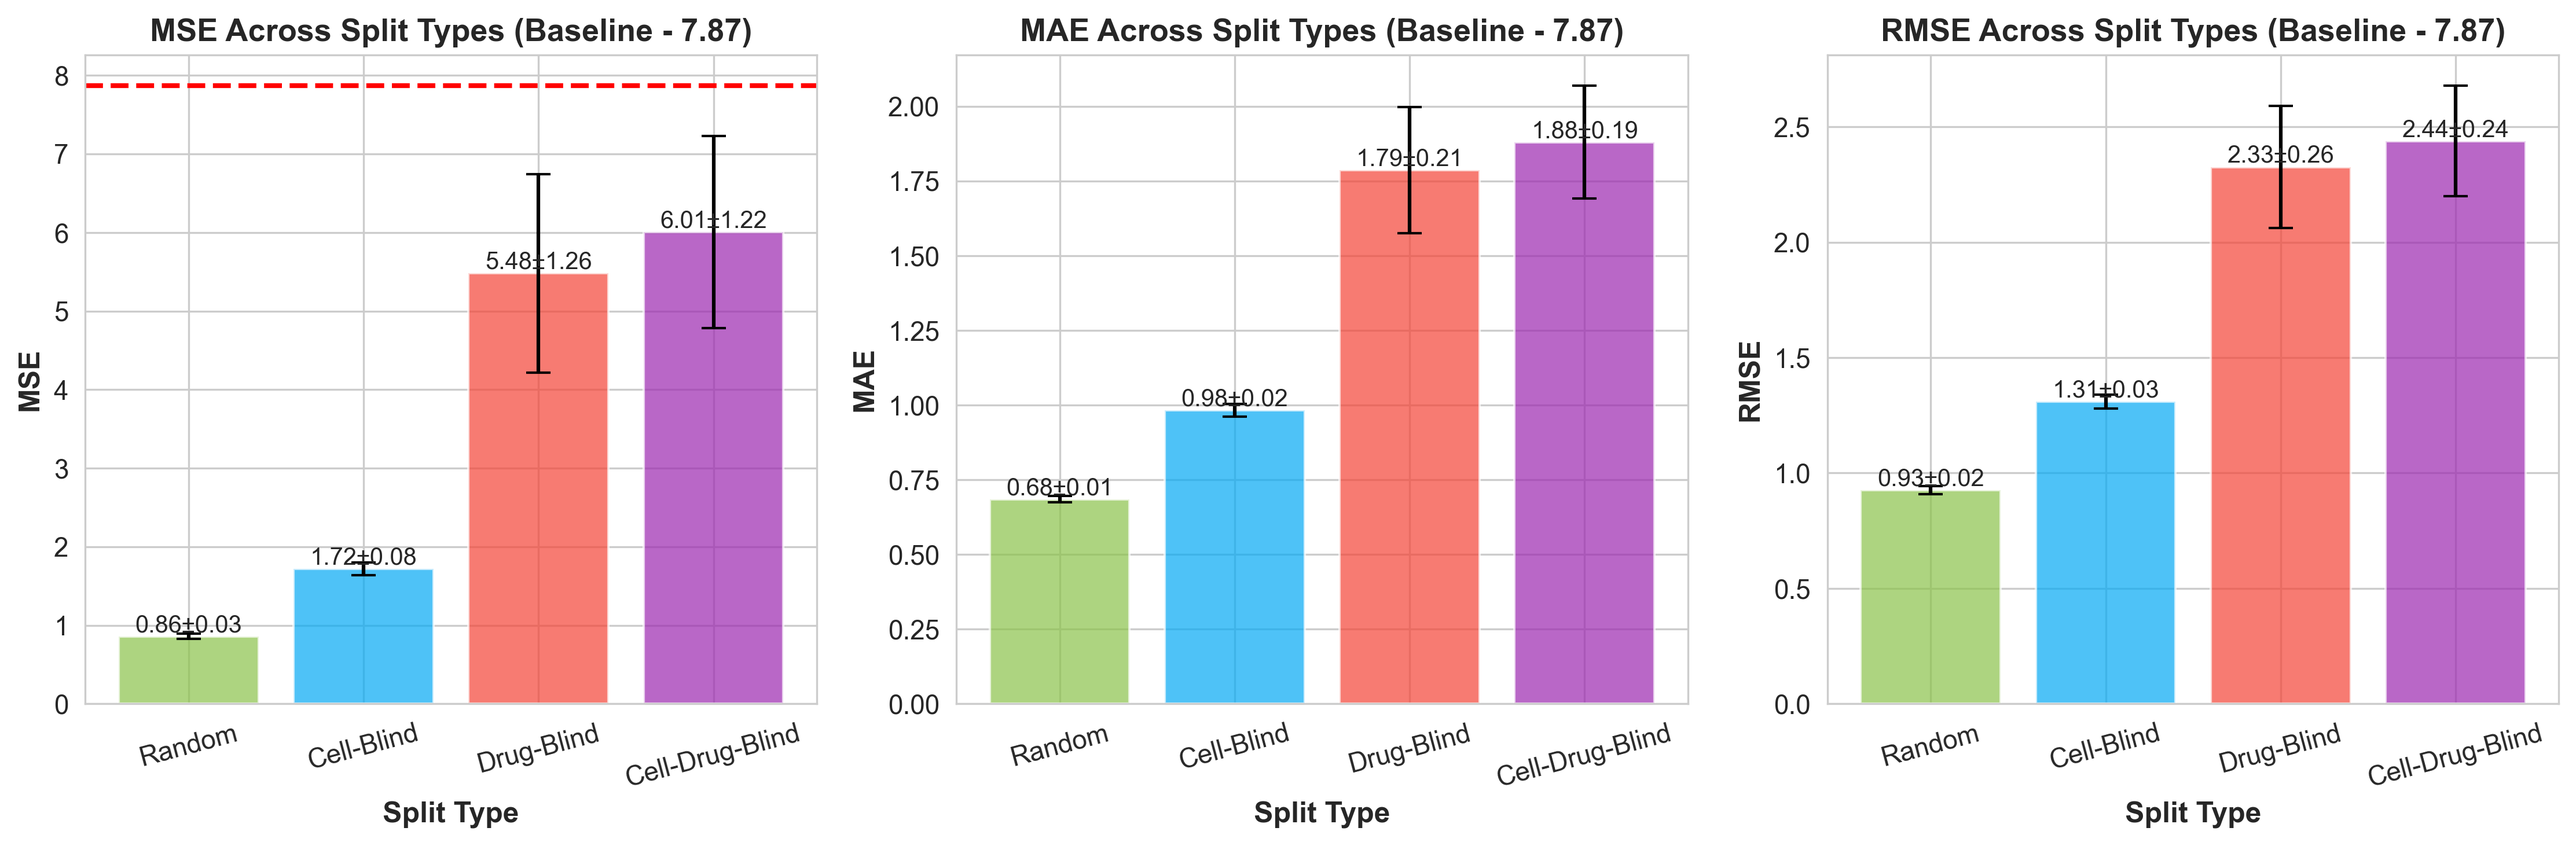
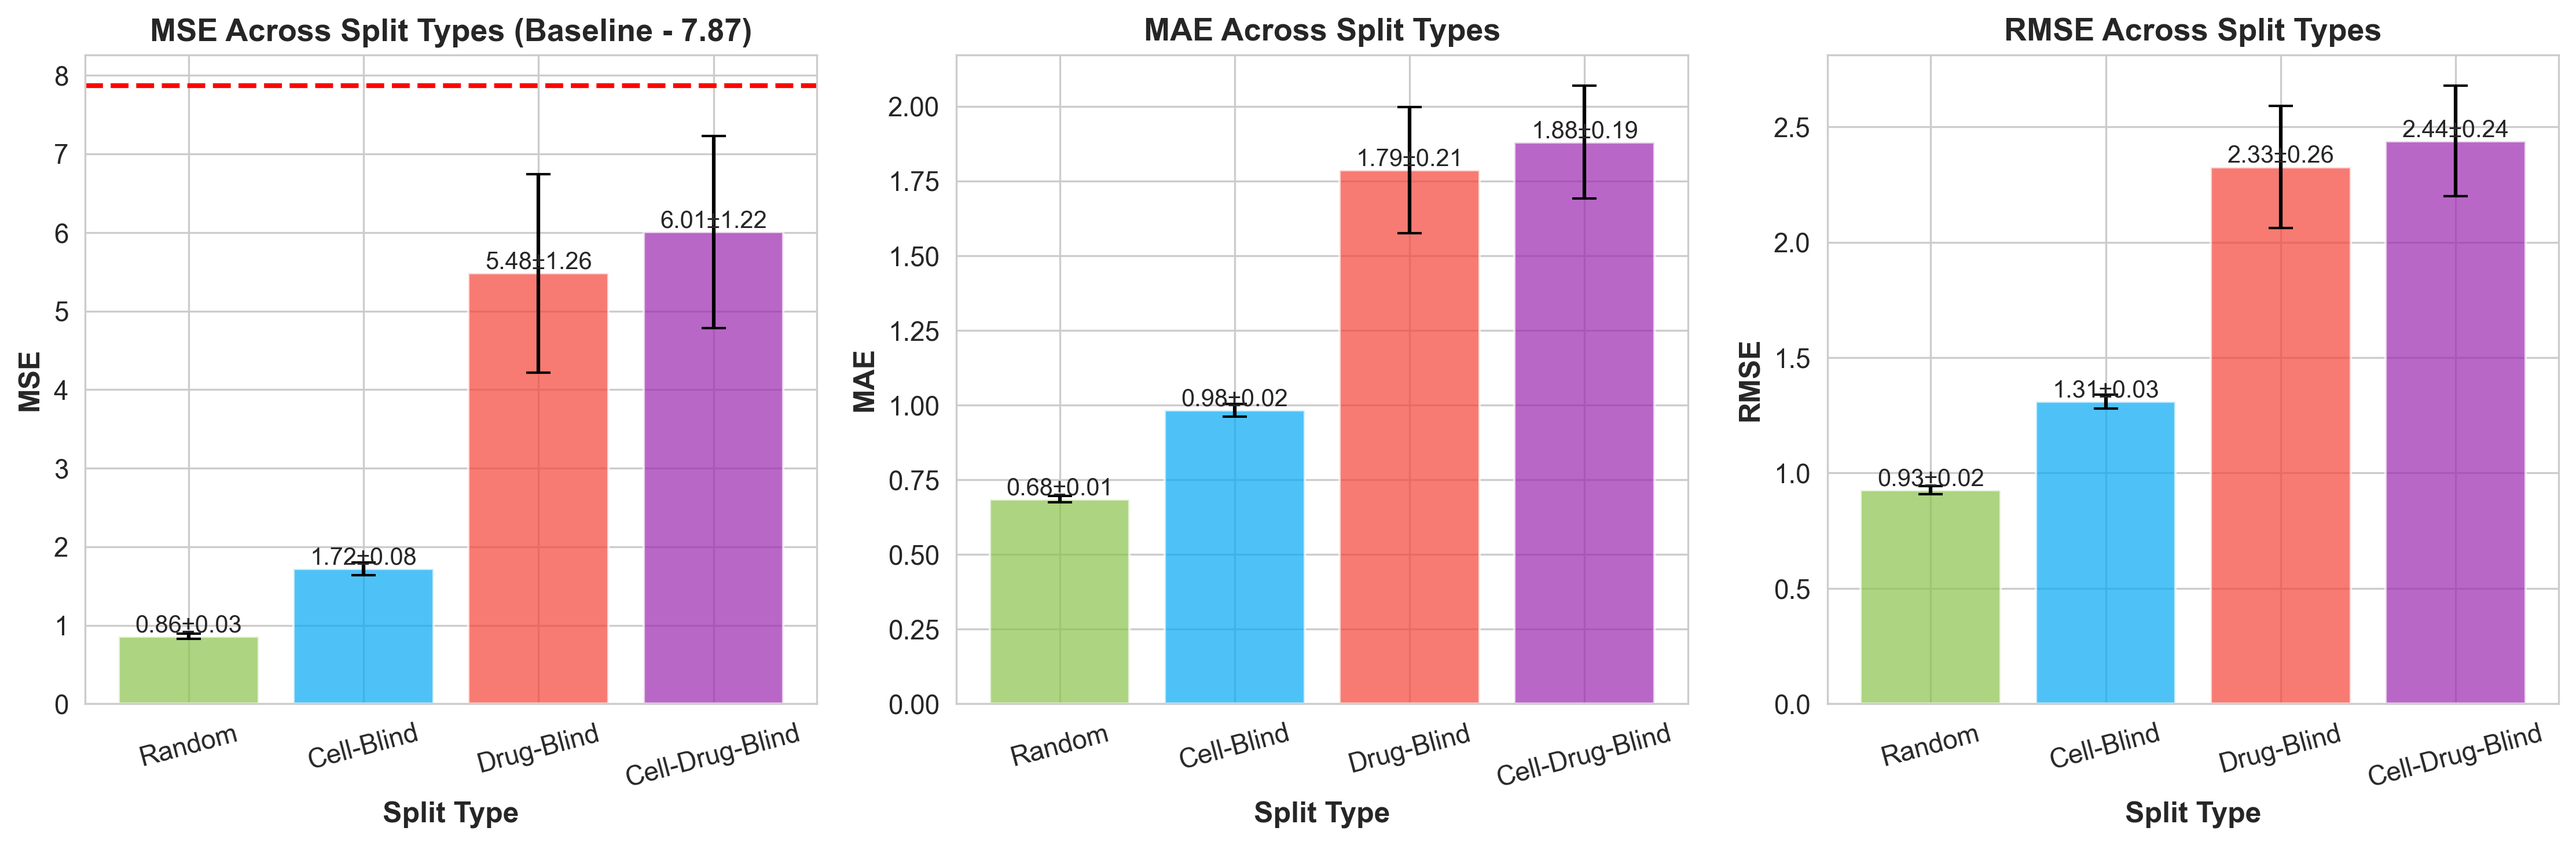
Minor formatting fix

Changed region(s): [[0.7184, 0.0, 0.9683, 0.0616], [0.3748, 0.0, 0.6247, 0.0616]]

diff --git a/visualize_results.py b/visualize_results.py
@@ -62,7 +62,7 @@ def plot_comparison_bar():
         # Basic labeling on the graph parameters
         axes[idx].set_ylabel(label, fontsize=12, fontweight='bold')
         axes[idx].set_xlabel('Split Type', fontsize=12, fontweight='bold')
-        axes[idx].set_title(f'{label} Across Split Types (Baseline - 7.87)', fontsize=13, fontweight='bold')
+        axes[idx].set_title(f'{label} Across Split Types', fontsize=13, fontweight='bold')
         axes[idx].tick_params(axis='x', rotation=15)
         
         # To highlight the improvement we got per split, we add a baseline comparison for MSE
@@ -73,6 +73,7 @@ def plot_comparison_bar():
         if metric == 'mse':
             # The baseline value is 7.87, so we draw a line at this value and label it as the baseline. 
             # The further any split's MSE is from this baseline, the better it is at predicting IC50 value.
+            axes[idx].set_title(f'MSE Across Split Types (Baseline - 7.87)', fontsize=13, fontweight='bold')
             axes[idx].axhline(y=7.87, color='red', linestyle='--', linewidth=2, label='Baseline')
     
     # Save the plot at the appropriate destination
